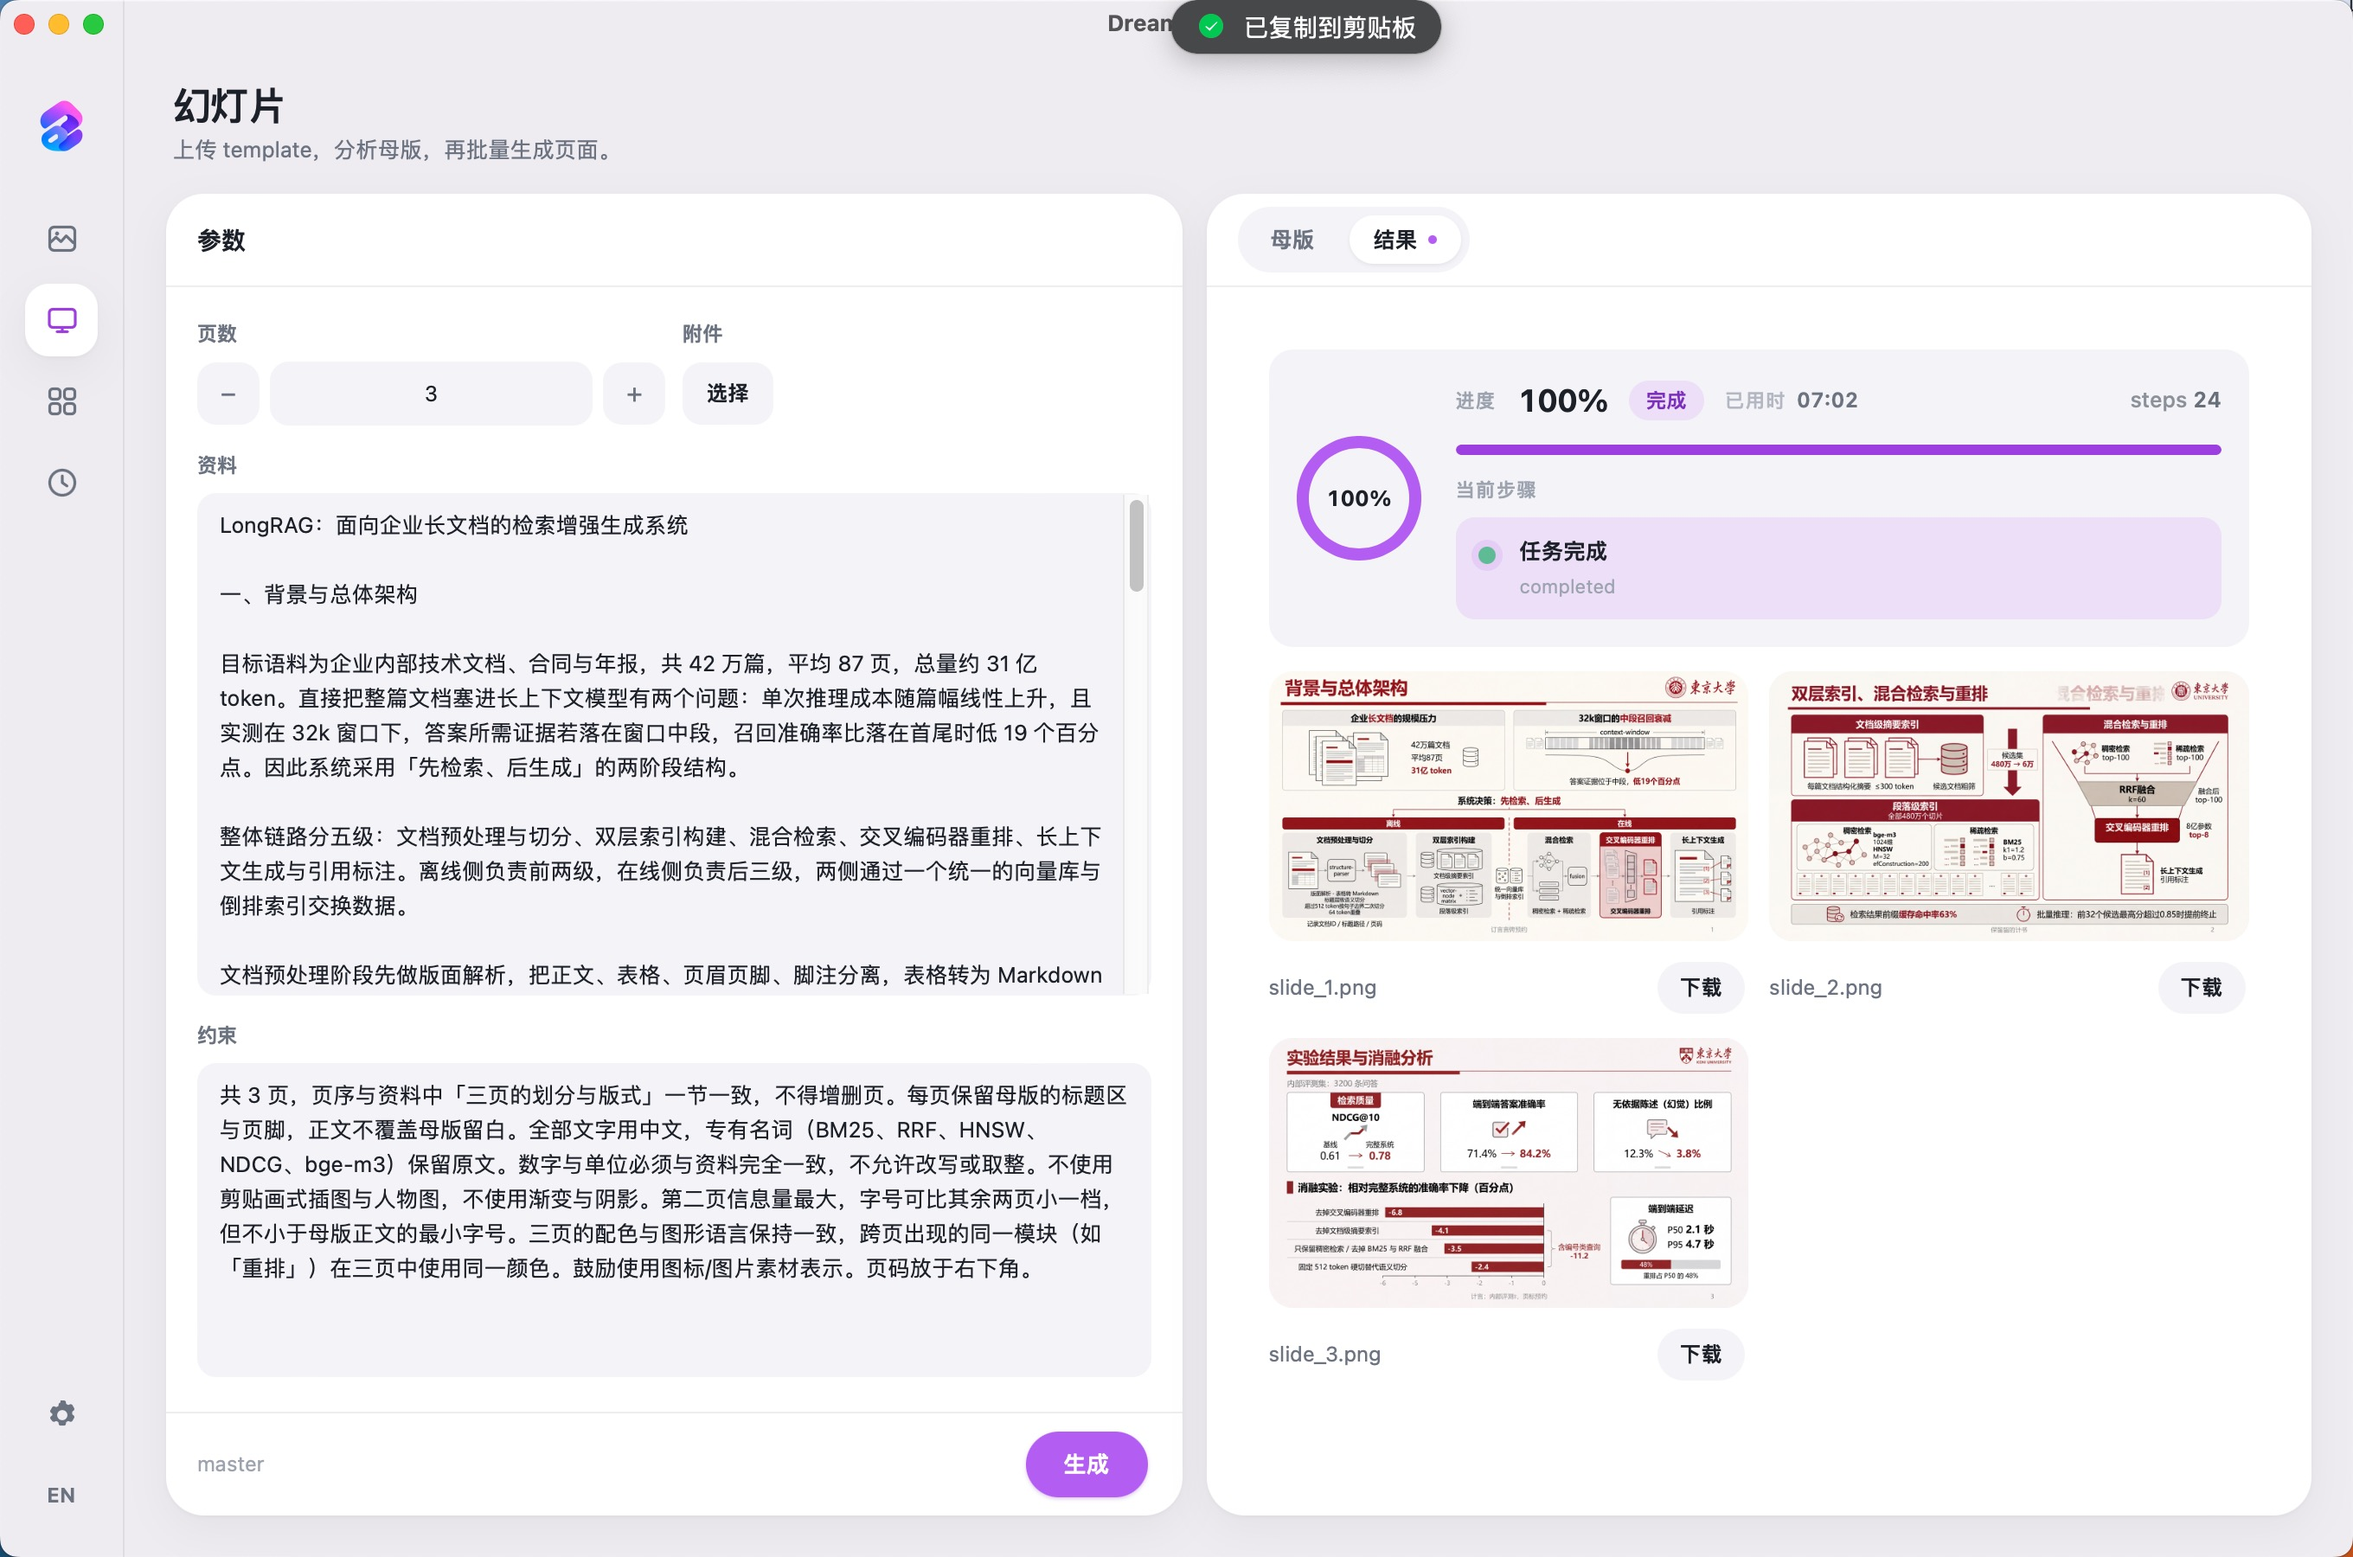
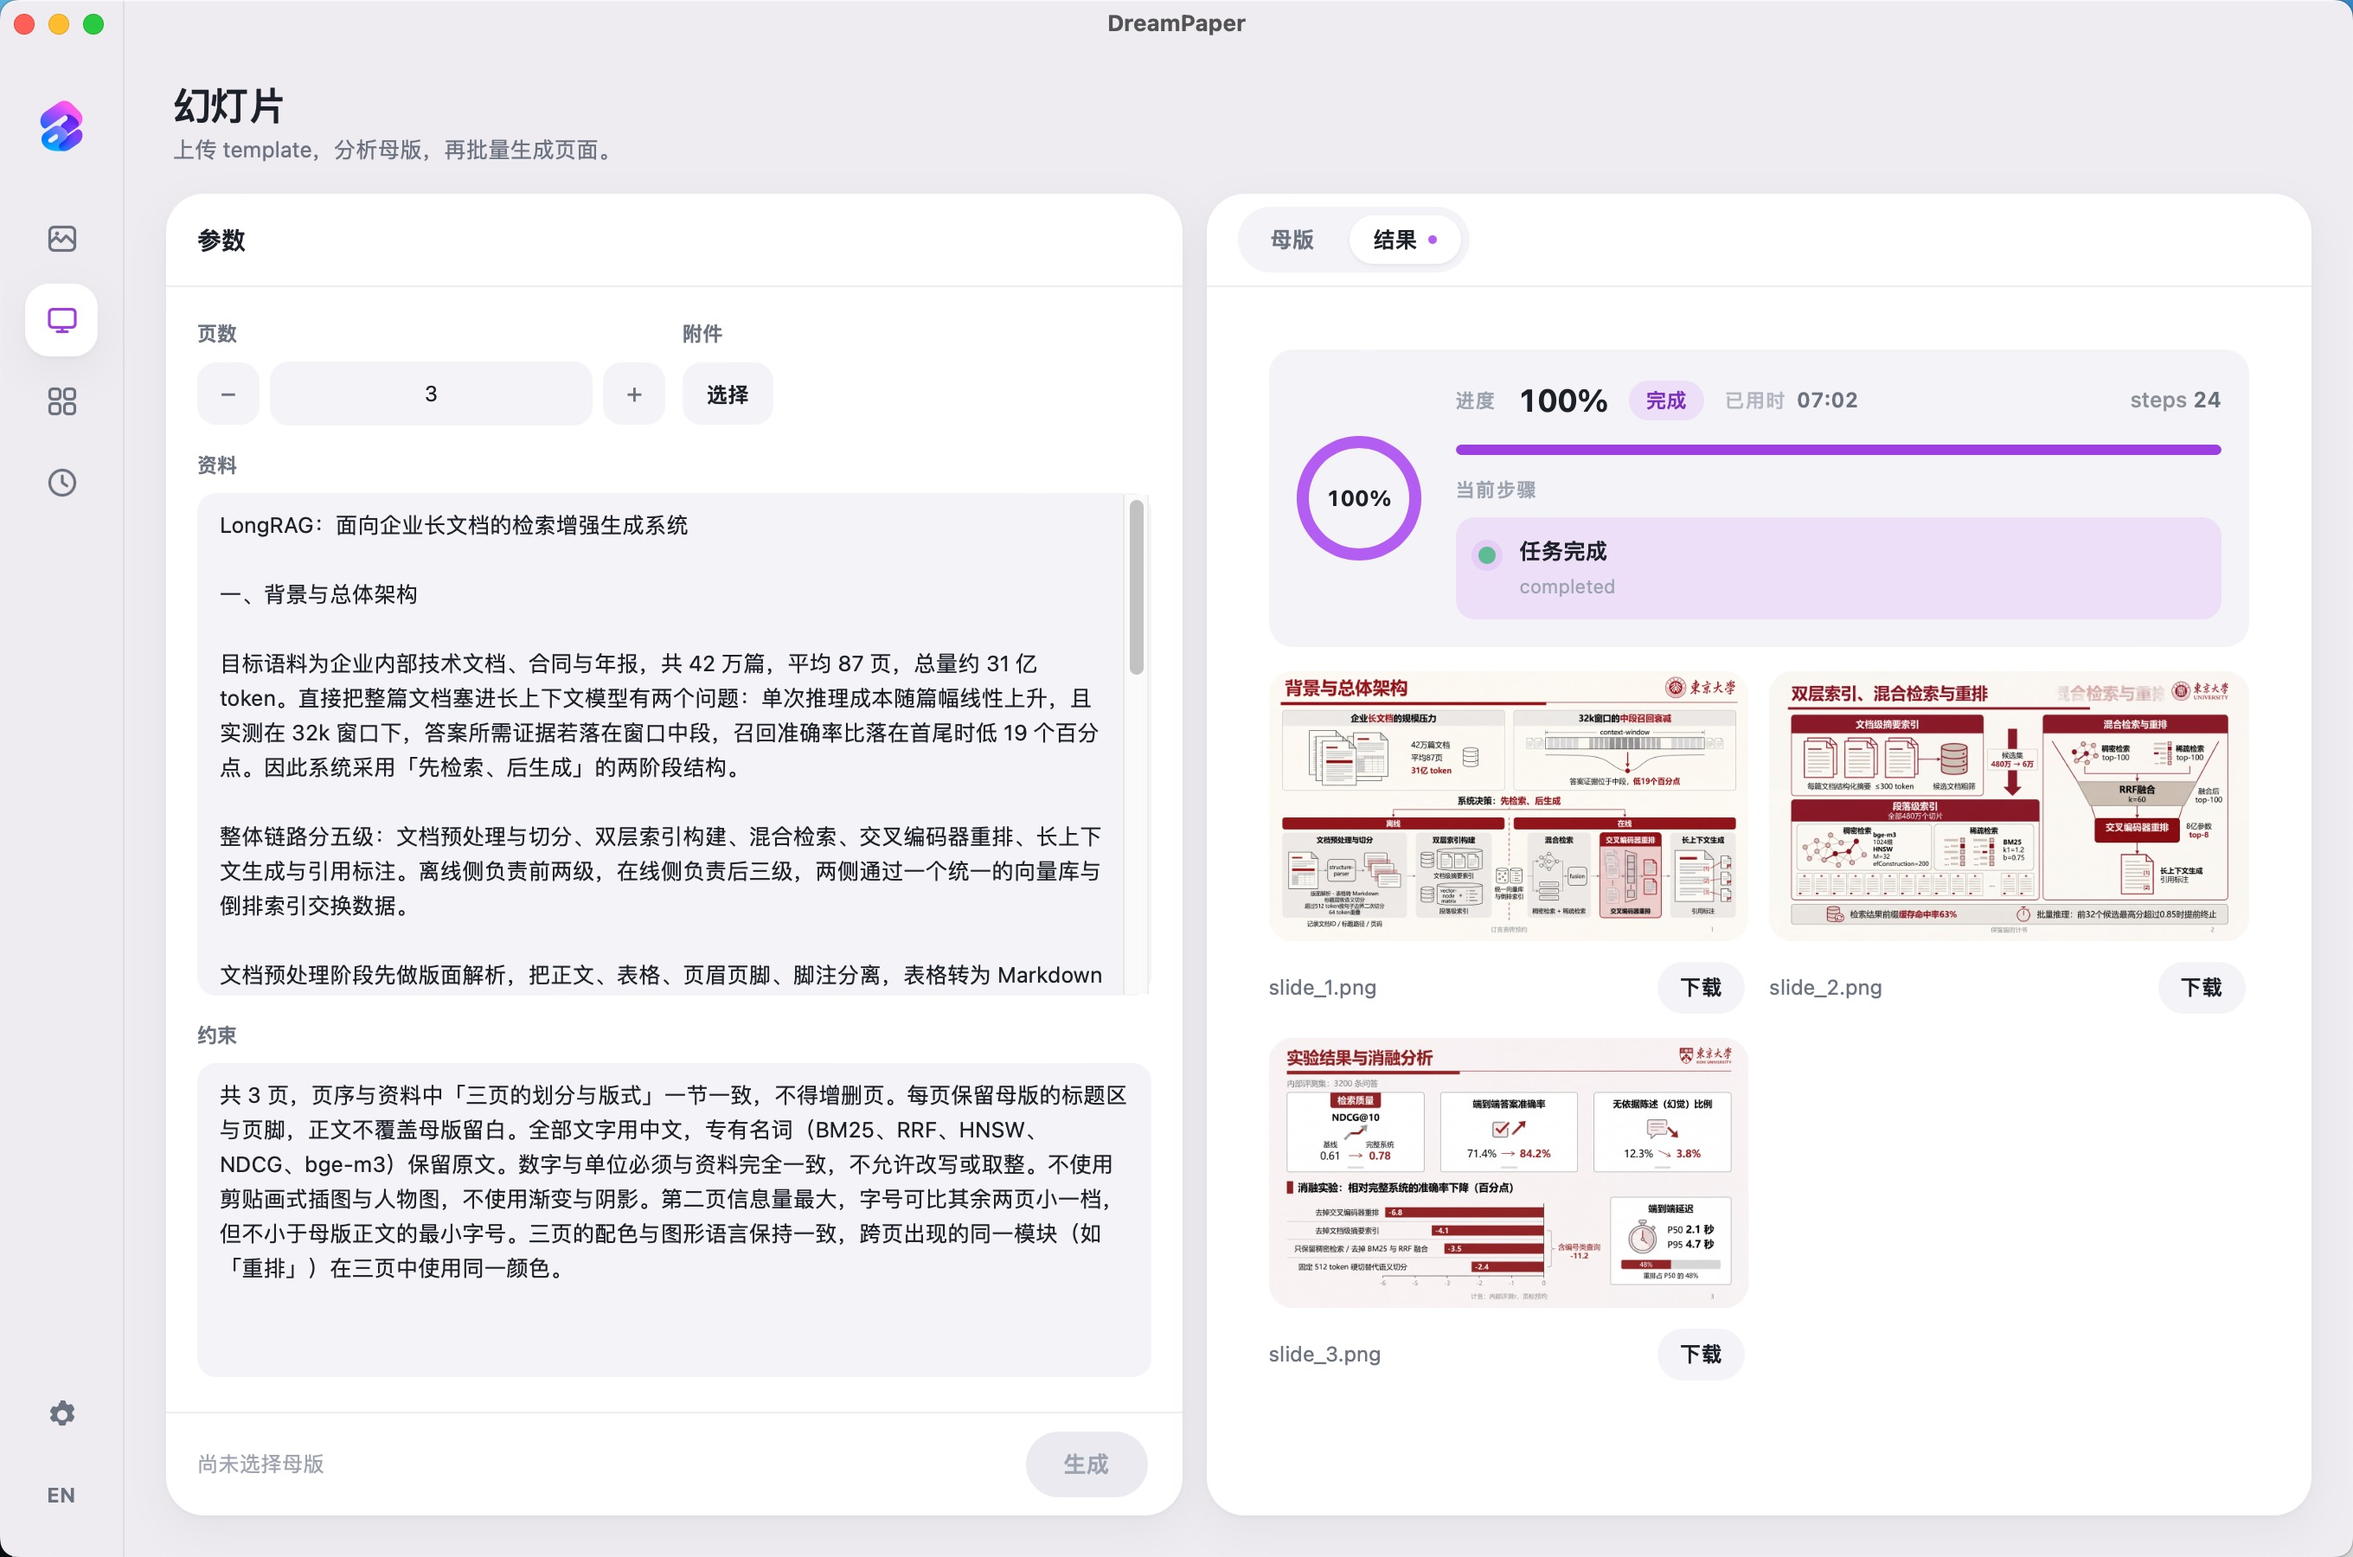
Replace slide screenshot and add noncommercial license
PolyForm Noncommercial 1.0.0: 允许个人、学术与非营利机构使用与二次开发，
禁止商业使用。选它而非 CC BY-NC，是因为 Creative Commons 官方明确不建议
把 CC 协议用于软件——CC 不涉及专利授权，也没有针对源码分发的条款。

diff --git a/README_EN.md b/README_EN.md
@@ -14,6 +14,7 @@
   <img alt="TypeScript 5.8" src="https://img.shields.io/badge/TypeScript-5.8-3178C6?logo=typescript&logoColor=white">
   <img alt="Tauri 2" src="https://img.shields.io/badge/Tauri-2-24C8D5?logo=tauri&logoColor=white">
   <img alt="Rust stable" src="https://img.shields.io/badge/Rust-stable-000000?logo=rust&logoColor=white">
+  <a href="LICENSE"><img alt="License PolyForm Noncommercial 1.0.0" src="https://img.shields.io/badge/License-PolyForm%20Noncommercial%201.0.0-F5A623"></a>
 </p>
 
 <p align="center">中文版：<a href="README.md">README.md</a></p>
@@ -152,3 +153,19 @@ Open http://127.0.0.1:5173
 ## Credits
 
 Figure templates from [PaperBananaBench](https://huggingface.co/datasets/dwzhu/PaperBananaBench) ([PaperBanana](https://github.com/dwzhu-pku/PaperBanana)).
+
+---
+
+## License
+
+Licensed under the [PolyForm Noncommercial License 1.0.0](LICENSE) — **noncommercial use is permitted, commercial use is not**.
+
+| Use case | Permitted |
+| --- | --- |
+| Personal study, research, experiment, hobby projects | ✅ |
+| Universities, public research, public health, government bodies | ✅ |
+| Reading, modifying, redistributing the source | ✅ (must ship this license) |
+| Internal production use at a company, paid or commercial services | ❌ |
+| Selling this project or derivatives as a product | ❌ |
+
+Open an issue for commercial licensing.

diff --git a/README.md b/README.md
@@ -14,6 +14,7 @@
   <img alt="TypeScript 5.8" src="https://img.shields.io/badge/TypeScript-5.8-3178C6?logo=typescript&logoColor=white">
   <img alt="Tauri 2" src="https://img.shields.io/badge/Tauri-2-24C8D5?logo=tauri&logoColor=white">
   <img alt="Rust stable" src="https://img.shields.io/badge/Rust-stable-000000?logo=rust&logoColor=white">
+  <a href="LICENSE"><img alt="License PolyForm Noncommercial 1.0.0" src="https://img.shields.io/badge/License-PolyForm%20Noncommercial%201.0.0-F5A623"></a>
 </p>
 
 <p align="center">English: <a href="README_EN.md">README_EN.md</a></p>
@@ -164,3 +165,19 @@ npm run dev
 ## 致谢
 
 科研图 template 来自 [PaperBananaBench](https://huggingface.co/datasets/dwzhu/PaperBananaBench)（[PaperBanana](https://github.com/dwzhu-pku/PaperBanana)）。
+
+---
+
+## 开源协议
+
+本项目采用 [PolyForm Noncommercial License 1.0.0](LICENSE)，**允许非商业使用，禁止商业使用**。
+
+| 用途 | 是否允许 |
+| --- | --- |
+| 个人学习、研究、实验、业余项目 | ✅ |
+| 高校、科研机构、公立医疗与政府部门使用 | ✅ |
+| 阅读、修改源码，二次开发与分发 | ✅（需附带本协议） |
+| 公司内部生产使用、对外提供付费或商业服务 | ❌ |
+| 将本项目或其衍生版本作为商品出售 | ❌ |
+
+需要商业授权请通过 issue 联系作者。
